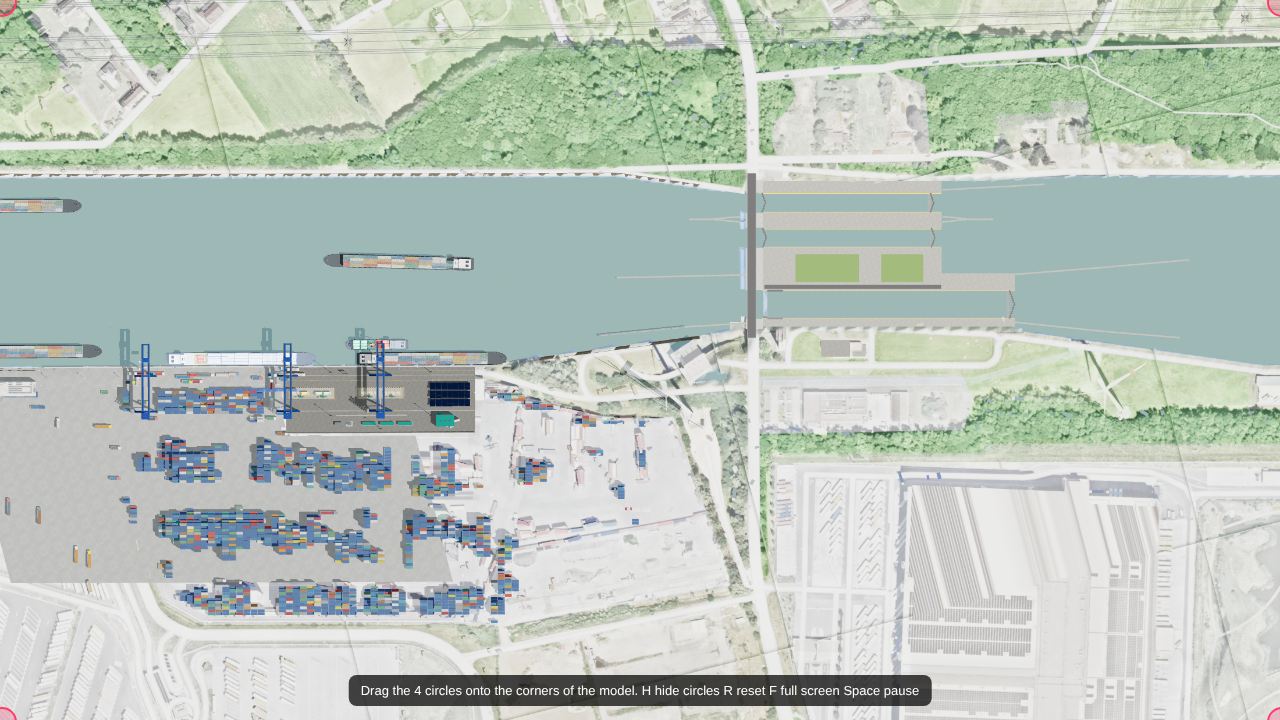
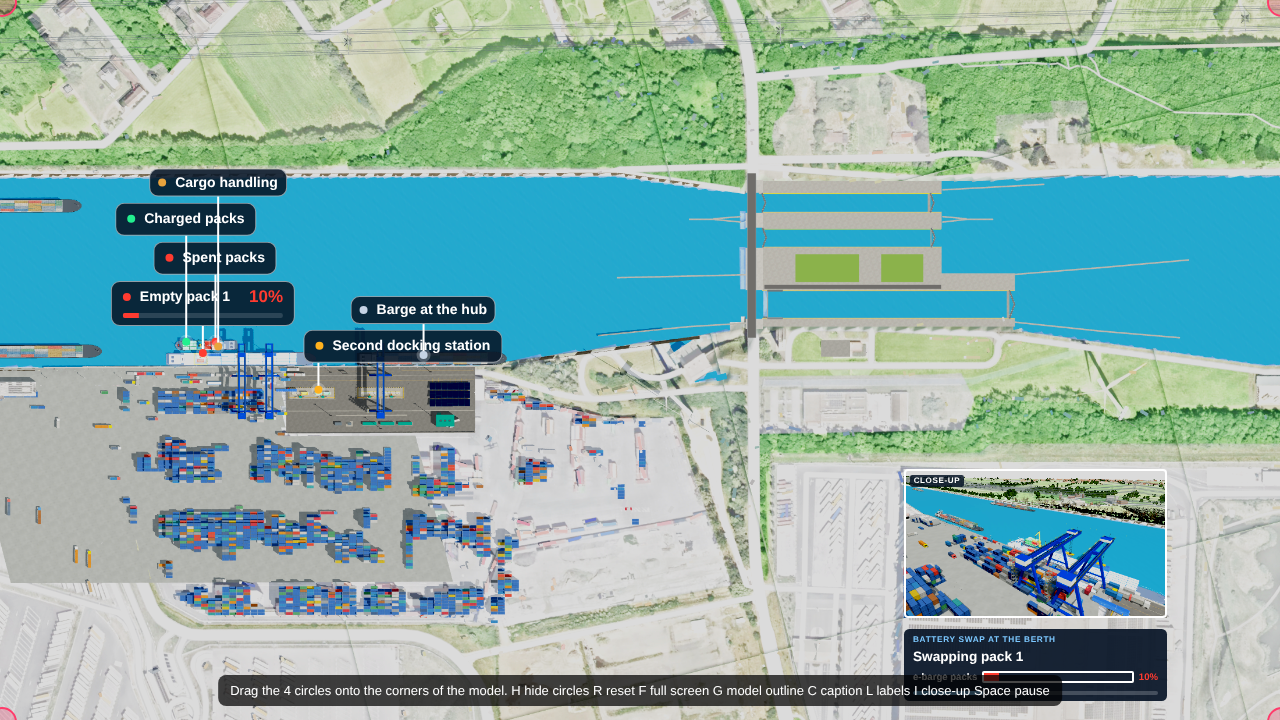
Projection: labels, story caption, close-up 3D screen on the warehouse roof, richer colours, model outline toggle
Claude-Session: https://claude.ai/code/session_01Sxb3gb2LiNtDyyvt3zXpMA

diff --git a/projection/index.html b/projection/index.html
@@ -28,7 +28,15 @@
 html,body{height:100%}
 body{margin:0;background:var(--navy);color:var(--ivory);font-family:var(--sans);overflow:hidden;-webkit-font-smoothing:antialiased}
 #gl{position:fixed;inset:0;display:block;width:100%;height:100%;touch-action:none;cursor:grab;outline:none}
-body.proj{background:#000!important;overflow:hidden} body.proj *{visibility:hidden!important} body.proj #gl,body.proj #projUI,body.proj #projUI *{visibility:visible!important}
+body.proj{background:#000!important;overflow:hidden} body.proj *{visibility:hidden!important} body.proj #gl,body.proj #projUI,body.proj #projUI *,body.proj #projOver,body.proj #projOver *{visibility:visible!important}
+#projOver{position:fixed;left:0;top:0;transform-origin:0 0;pointer-events:none;overflow:hidden;z-index:50;color:#fff;font-family:Arial,Helvetica,sans-serif}
+#projOver #labels{position:absolute;inset:0} #projOver .lbl .card{background:rgba(6,20,38,.88);border:1px solid rgba(255,255,255,.55);box-shadow:none;pointer-events:none} #projOver .lbl .n{font-size:1.05em} #projOver .lbl .stem{background:#fff;width:2px}
+#projIn{position:absolute;left:70.6%;top:65.2%;width:20.6%;aspect-ratio:16/9;box-sizing:border-box;border:.18em solid #fff;border-radius:.3em} #projIn span{position:absolute;left:.5em;top:.4em;font-size:.6em;font-weight:700;letter-spacing:.08em;text-transform:uppercase;background:rgba(6,20,38,.85);padding:.2em .5em;border-radius:.3em} #projOver.noin #projIn{display:none}
+#projCap{position:absolute;left:70.6%;top:87.4%;width:20.6%;box-sizing:border-box;background:rgba(6,20,38,.92);border-radius:.4em;padding:.45em .7em;line-height:1.2} #projCap .b{display:none}
+#projCap .k{font-size:.62em;letter-spacing:.08em;text-transform:uppercase;color:#7cc8ff;font-weight:700} #projCap .h{font-size:1.02em;font-weight:700;margin:.25em 0} #projCap .b{font-size:.68em;color:#dbe8f7}
+#projCap .bar{height:.28em;background:rgba(255,255,255,.2);border-radius:1em;margin-top:.6em;overflow:hidden} #projCap .bar i{display:block;height:100%;background:#7cc8ff;width:0}
+#projCap .bt{display:flex;align-items:center;gap:.5em;font-size:.72em;margin-top:.6em;font-weight:700} #projCap .bt .cell{flex:1;height:.9em;border:2px solid #fff;border-radius:.2em;overflow:hidden} #projCap .bt .cell i{display:block;height:100%}
+#projGuide{position:absolute;inset:0;width:100%;height:100%;opacity:.75;display:none} #projOver.guide #projGuide{display:block} #projOver.nocap #projCap{display:none} #projOver.nolab #labels{display:none}
 body.proj #gl{inset:auto;left:0;top:0;transform-origin:0 0;cursor:default} #projUI{position:fixed;inset:0;z-index:99999;pointer-events:none;font:13px Arial,sans-serif;color:#fff}
 #projUI .h{position:absolute;width:26px;height:26px;margin:-13px 0 0 -13px;border:2px solid #ff3b6b;border-radius:50%;background:rgba(255,59,107,.25);pointer-events:auto;cursor:move;touch-action:none}
 #projUI .tip{position:absolute;left:50%;bottom:14px;transform:translateX(-50%);background:rgba(0,0,0,.72);padding:8px 12px;border-radius:8px;white-space:nowrap} #projUI.off .h,#projUI.off .tip{display:none}
@@ -1882,12 +1890,12 @@ function uiRects(){ if(document.body.classList.contains('hidden-ui')) return [];
   _ui=['.brand','#scnTabs','.toolrow','#mini','#live','#story','#viewSeg','.zoom','.timeline','#act','#endc'].map(q=>document.querySelector(q)).filter(e=>e&&!e.hidden&&e.getClientRects().length)
     .map(e=>{ const r=e.getBoundingClientRect(); return {x0:r.left-6,x1:r.right+6,y0:r.top-6,y1:r.bottom+6}; }).filter(r=>r.x1-r.x0>20); return _ui; }
 function updateLabels(t){
-  const W=window.innerWidth, H=window.innerHeight, vid=VIEWS[cam.v].id; const vis=[];
+  const W=PROJ?innerWidth:window.innerWidth, H=PROJ?Math.round(innerWidth*PROJ_H/PROJ_W):window.innerHeight, vid=VIEWS[cam.v].id; const vis=[]; const LC=PROJ?projCam:camera;
   for(const L of LABELS){
     const on=(L.clock?!labelsOn:labelsOn)&&!renderer.xr.isPresenting&&(L.scn==='*'||(Array.isArray(L.scn)?L.scn.includes(SC.id):(L.scn||'hub')===SC.id))&&t>=L.from&&t<L.to&&!(L.hide&&L.hide.includes(vid))&&(!L.when||L.when(t,vid));
     if(!on){ if(L.el.style.display!=='none') L.el.style.display='none'; continue; }
-    const p=L.at(); _v.copy(p).project(camera);
-    const dist=camera.position.distanceTo(p);
+    const p=L.at(); _v.copy(p).project(LC);
+    const dist=PROJ?200:camera.position.distanceTo(p);
     let x=(_v.x*0.5+0.5)*W, y=(-_v.y*0.5+0.5)*H, br=null;
     if(L.batt){ br=battRect(L.batt(),W,H); if(br){ x=(br.x0+br.x1)/2; y=br.y0-3; } }
     if((L.batt&&!br)||_v.z>1||_v.x<-1.2||_v.x>1.2||_v.y<-1.2||_v.y>1.2||(L.minor&&dist>1800)||dist>(L.max||4200)){ L.el.style.display='none'; continue; }
@@ -1902,7 +1910,7 @@ function updateLabels(t){
   }
   // place the nearest and most important first, lift later ones above anything they would cover
   vis.sort((a,b)=>((!!b.batt)-(!!a.batt))||((!!a.minor)-(!!b.minor))||(a._d-b._d)); const placed=[];
-  const ui=uiRects();
+  const ui=PROJ?[]:uiRects();
   // the batteries themselves are obstacles: no label box may sit on top of them
   for(const n of (SC.id==='hub'?[BA,BH1,PB,H2]:[])){ const r=battRect(n,W,H); if(r) placed.push({x0:r.x0-6,x1:r.x1+6,y0:r.y0-6,y1:r.y1+6}); }
   for(const L of vis){ const card=L.el.firstChild; if(!L._w){ L._w=card.offsetWidth; L._h=card.offsetHeight; }
@@ -3284,18 +3292,41 @@ function frame(now){
   updateTreesV2(now);
   if(!xr){ updateLabels(tNow); updateHUD(tNow); }
   if(Math.floor(now/100)!==Math.floor((now-dt*1000)/100)) drawMaps(kmOf(barge.position));
-  if(PROJ&&!xr){ if(ended) projNextScenario(); if((projTick++)%90===0) scene.traverse(o=>{ if(o.name==='treeBill'||o.name==='tree3d') o.visible=false; }); renderer.render(scene,projCam); } else
+  if(PROJ&&!xr){ if(ended) projNextScenario(); updateLabels(tNow); if(window.__projCaption) window.__projCaption(tNow);
+    if((projTick++)%90===0){ projTrees.length=0; scene.traverse(o=>{ if(o.name==='treeBill'||o.name==='tree3d') projTrees.push(o); }); }
+    const W=innerWidth, H=Math.round(W*PROJ_H/PROJ_W);
+    // pass 1: the whole model from straight above (tree models hidden, the ground photo shows the canopy)
+    for(const o of projTrees) o.visible=false; scene.fog=null;
+    renderer.setScissorTest(false); renderer.setViewport(0,0,W,H); renderer.render(scene,projCam);
+    // pass 2: the close-up 3D camera of the original animation, drawn onto the flat warehouse roof of the model
+    if(projInset){ const [fx,fy,fw]=PROJ_INSET, iw=Math.round(fw*W), ih=Math.round(iw*9/16), ix=Math.round(fx*W), iy=H-Math.round(fy*H)-ih;
+      for(const o of projTrees) o.visible=true; scene.fog=projFog;
+      renderer.setScissorTest(true); renderer.setScissor(ix,iy,iw,ih); renderer.setViewport(ix,iy,iw,ih); renderer.render(scene,camera); renderer.setScissorTest(false); renderer.setViewport(0,0,W,H); }
+  } else
   if(composer&&!xr) composer.render(dt); else renderer.render(scene,camera);
 }
 /* ---- projector mode: loops the stories, no interface, four corner handles to line the picture up with the printed model ---- */
-let projList=['berth','lock'], projIdx=0, projTick=0;   // tree models read as dark stars from straight above, the ground photo already shows the canopy
+let projList=['berth','lock'], projIdx=0, projTick=0, projInset=true, projFog=null; const projTrees=[], PROJ_INSET=[0.706,0.652,0.206];   // tree models read as dark stars from straight above, the ground photo already shows the canopy
 function projNextScenario(){ projIdx=(projIdx+1)%projList.length; setScenario(projList[projIdx]); guided=false; setPaused(false); }
 function startProjection(){
-  document.body.classList.add('proj'); guided=false; scene.fog=null;
+  document.body.classList.add('proj'); guided=false; projFog=scene.fog; scene.fog=null; camera.aspect=16/9; camera.updateProjectionMatrix(); projInset=!params.has('noinset');
   { const want=(params.get('proj')||'').split(',').filter(k=>SCN[k]); if(want.length) projList=want; projIdx=0; setScenario(projList[0]); guided=false; setPaused(false); }
   scene.traverse(o=>{ if(o.isSprite||o.name==='treeBill') o.visible=false; });   // flat tree cards read as specks from straight above; the ground photo already shows the canopy
   const ui=document.createElement('div'); ui.id='projUI'; document.body.appendChild(ui);
-  const tip=document.createElement('div'); tip.className='tip'; tip.textContent='Drag the 4 circles onto the corners of the model.  H hide circles   R reset   F full screen   Space pause'; ui.appendChild(tip);
+  const tip=document.createElement('div'); tip.className='tip'; tip.textContent='Drag the 4 circles onto the corners of the model.  H hide circles   R reset   F full screen   G model outline   C caption   L labels   I close-up   Space pause'; ui.appendChild(tip);
+  const over=document.createElement('div'); over.id='projOver'; document.body.appendChild(over); over.appendChild($('labels')); labelsOn=true;
+  const guide=document.createElement('img'); guide.id='projGuide'; guide.src='../print/top_view_for_projection_alignment.png'; over.appendChild(guide);
+  const cap=document.createElement('div'); cap.id='projCap'; cap.innerHTML='<div class="k"></div><div class="h"></div><div class="b"></div><div class="bt"><span>e-barge packs</span><span class="cell"><i></i></span><span class="pc"></span></div><div class="bar"><i></i></div>'; over.appendChild(cap);
+  { const fr=document.createElement('div'); fr.id='projIn'; fr.innerHTML='<span>Close-up</span>'; over.appendChild(fr); if(!projInset) over.classList.add('noin'); }
+  const NAMES={berth:'Battery swap at the berth',lock:'Battery swap at the lock',hub:'Battery swap at the hub'}; let capKey='';
+  window.__projCaption=t=>{ let c=CH[0]; for(const k of CH) if(k.t<=t) c=k; const key=SC.id+'|'+(c?c.t:'');
+    if(key!==capKey){ capKey=key; cap.querySelector('.k').textContent=NAMES[SC.id]||''; cap.querySelector('.h').textContent=c?c.h:''; const b=c?String(c.b||''):''; const m=b.match(/^.*?[.!?](\s|$)/); cap.querySelector('.b').textContent=(m?m[0]:b).trim(); }
+    cap.querySelector('.bar i').style.width=(100*t/T_END).toFixed(1)+'%';
+    let pc=null; for(const L of LABELS){ if(L.id==='bay2'&&L.pct){ try{ pc=Math.round(L.pct(t)); }catch(e){} } }
+    const bt=cap.querySelector('.bt'); if(pc===null||SC.id==='hub'){ bt.style.display='none'; } else { bt.style.display='flex'; const i=bt.querySelector('.cell i'); i.style.width=pc+'%'; i.style.background=pctCol(pc); bt.querySelector('.pc').textContent=pc+'%'; bt.querySelector('.pc').style.color=pctCol(pc); } };
+  // richer picture for a projector on white plastic: deep water, stronger colour, darker ground
+  try{ WATER_MAT.color.set('#0a3a58'); WATER_MAT.envMapIntensity=0.03; WATER_MAT.roughness=0.35; WATER_MAT.needsUpdate=true; }catch(e){}
+  renderer.domElement.style.filter=params.get('look')==='plain'?'':'contrast(1.22) saturate(1.55) brightness(0.86)';
   const g=renderer.domElement; let P=null; const KEY='albertCanalProjPin';
   const base=()=>{ const w=innerWidth,h=Math.round(w*PROJ_H/PROJ_W), y=Math.max(0,(innerHeight-h)/2); return [[0,y],[w,y],[w,y+h],[0,y+h]]; };
   try{ const sv=JSON.parse(localStorage.getItem(KEY)||'null'); if(sv&&sv.length===4) P=sv.map(([a,b])=>[a*innerWidth,b*innerHeight]); }catch(e){}
@@ -3308,11 +3339,11 @@ function startProjection(){
     for(let c=0;c<8;c++){ let m=c; for(let r=c+1;r<8;r++) if(Math.abs(A[r][c])>Math.abs(A[m][c])) m=r; [A[c],A[m]]=[A[m],A[c]]; [b[c],b[m]]=[b[m],b[c]]; if(Math.abs(A[c][c])<1e-12) return;
       for(let r=0;r<8;r++){ if(r===c) continue; const f=A[r][c]/A[c][c]; for(let q=c;q<8;q++) A[r][q]-=f*A[c][q]; b[r]-=f*b[c]; } }
     const H=b.map((v,k)=>v/A[k][k]);
-    g.style.transform='matrix3d('+[H[0],H[3],0,H[6], H[1],H[4],0,H[7], 0,0,1,0, H[2],H[5],0,1].join(',')+')';
+    const M='matrix3d('+[H[0],H[3],0,H[6], H[1],H[4],0,H[7], 0,0,1,0, H[2],H[5],0,1].join(',')+')'; g.style.transform=M; over.style.transform=M; over.style.width=w+'px'; over.style.height=h+'px'; over.style.fontSize=(w/96)+'px';
     hs.forEach((d,k)=>{ d.style.left=P[k][0]+'px'; d.style.top=P[k][1]+'px'; });
     if(save) try{ localStorage.setItem(KEY,JSON.stringify(P.map(([a,c])=>[a/innerWidth,c/innerHeight]))); }catch(e){} }
   window.__projPin=()=>pin(false); resize();
   addEventListener('keydown',e=>{ const k=e.key.toLowerCase();
-    if(k==='h') ui.classList.toggle('off'); else if(k==='r'){ P=base(); pin(true); } else if(k==='f'){ if(document.fullscreenElement) document.exitFullscreen(); else document.documentElement.requestFullscreen().catch(()=>{}); } else if(k===' '){ setPaused(!paused); e.preventDefault(); } },true);
+    if(k==='h') ui.classList.toggle('off'); else if(k==='g') over.classList.toggle('guide'); else if(k==='c') over.classList.toggle('nocap'); else if(k==='i'){ projInset=!projInset; over.classList.toggle('noin',!projInset); } else if(k==='l') over.classList.toggle('nolab'); else if(k==='r'){ P=base(); pin(true); } else if(k==='f'){ if(document.fullscreenElement) document.exitFullscreen(); else document.documentElement.requestFullscreen().catch(()=>{}); } else if(k===' '){ setPaused(!paused); e.preventDefault(); } },true);
 }
 </script>

diff --git a/index.html b/index.html
@@ -22,13 +22,15 @@ ol{color:var(--mut);padding-left:22px}li{margin:4px 0}img.s{width:100%;border-ra
 <a class="btn alt" href="projection/?proj=lock">Lock story only</a>
 <img class="hero" src="preview_projection.png" alt="The projection view: the port and lock seen from straight above">
 
+<p>The picture shows the whole port from straight above at the scale of the model, with labels on the vessels and battery packs. The close-up 3D camera and the story caption land on the flat warehouse roof, which works as a small screen.</p>
 <h2>How to project</h2>
 <ol>
 <li>Open this page on the laptop connected to the projector and press Start the projection.</li>
 <li>Press F for full screen.</li>
 <li>Drag the four pink circles onto the four corners of the printed model.</li>
 <li>Press H to hide the circles. The position is remembered on that laptop.</li>
-<li>Space pauses. R resets the corners.</li>
+<li>G shows the outline of the printed model so you can check the fit.</li>
+<li>C hides the caption, L the labels, I the close-up screen. Space pauses. R resets the corners.</li>
 </ol>
 
 <h2>Print files (Bambu Lab P2S)</h2>
